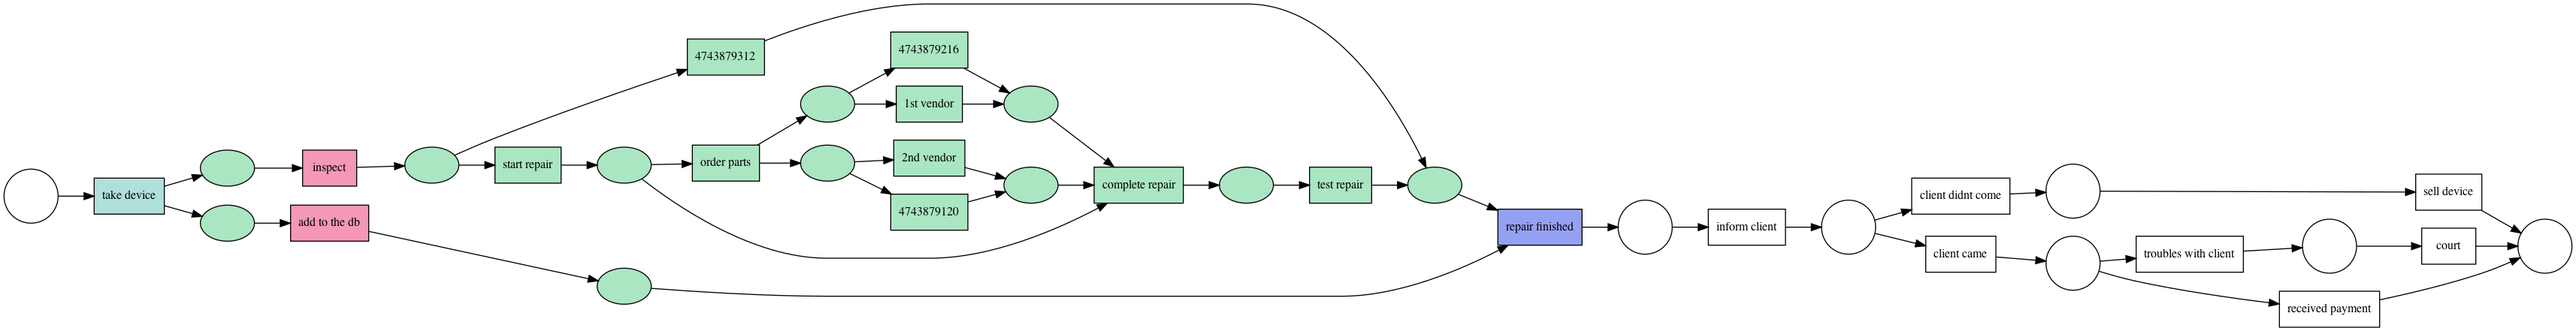
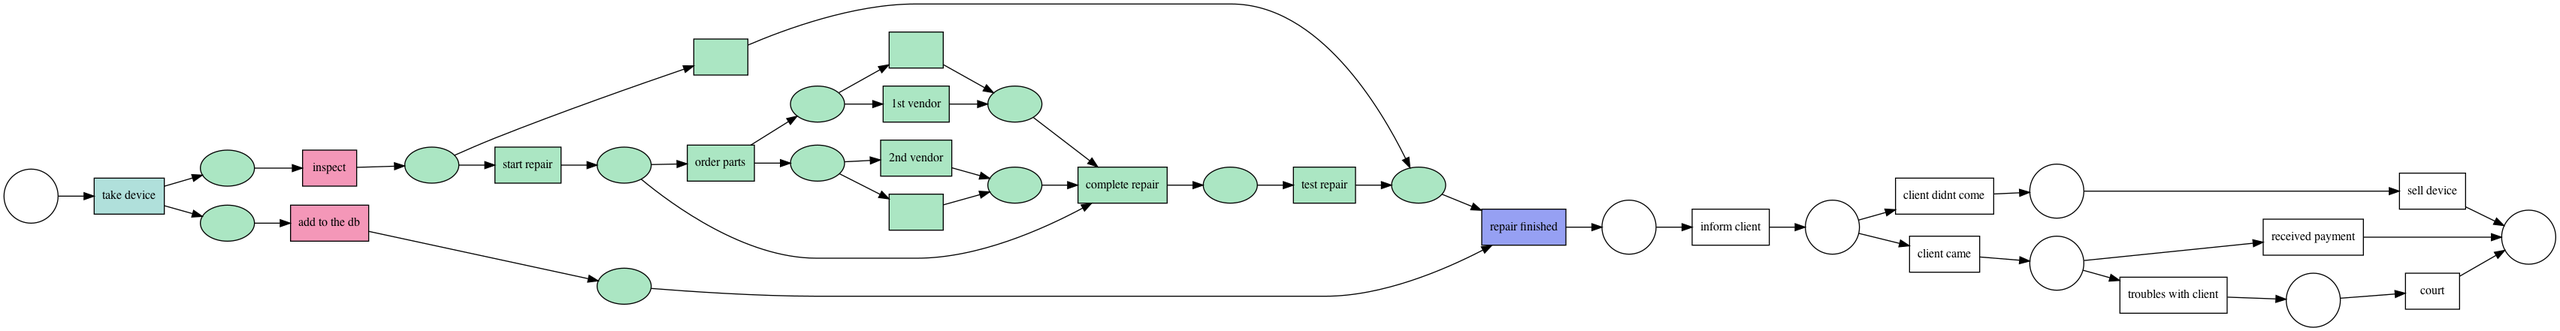
optimized min hammock to O(m)

diff --git a/hammocks_covering/variants/minimal_hammock.py b/hammocks_covering/variants/minimal_hammock.py
@@ -34,26 +34,42 @@ class NodeFilter:
 
 
 def _bfs(start_nodes, target_node=None, stop_nodes=None, used=None, reverse_order: bool = False):
+    """
+    if target_node is not None -> path mode
+    otherwise                  -> traversal mode
+    :return:
+        in path mode
+            a path from any of the start_nodes to the target_node
+        in traversal mode
+            new_used_nodes - set of the new nodes that became used during this traversal
+            visited_stops
+    """
     parents = {}
     used = set() if used is None else used
     stop_nodes = set() if stop_nodes is None else stop_nodes
     cur_level = []
+
+    new_used_nodes = set()
+    visited_stops = set()
+
     for node in start_nodes:
         if target_node is not None:
             if node == target_node:
                 return [node]
             parents[node] = None
+        if node in used:
+            continue
+        new_used_nodes.add(node)
         used.add(node)
+        if node in stop_nodes:
+            visited_stops.add(node)
+            continue
         cur_level.append(node)
 
     next_level = []
-    visited_stops = set()
 
     while cur_level:
         for node in cur_level:
-            if node in stop_nodes:
-                visited_stops.add(node)
-                continue
             for arc in (node.in_arcs if reverse_order else node.out_arcs):
                 next_node = (arc.source if reverse_order else arc.target)
                 if next_node not in used:
@@ -61,6 +77,10 @@ def _bfs(start_nodes, target_node=None, stop_nodes=None, used=None, reverse_orde
                         parents[next_node] = node
                         if node == target_node:
                             break
+                    if next_node in stop_nodes:
+                        visited_stops.add(next_node)
+                        continue
+                    new_used_nodes.add(next_node)
                     used.add(next_node)
                     next_level.append(next_node)
         cur_level = next_level
@@ -78,7 +98,7 @@ def _bfs(start_nodes, target_node=None, stop_nodes=None, used=None, reverse_orde
         path = list(reversed(path))
         return path
     else:
-        return visited_stops
+        return new_used_nodes, visited_stops
 
 
 def _find_path(start_nodes, target_node, reverse_order=False):
@@ -91,66 +111,54 @@ def _find_path(start_nodes, target_node, reverse_order=False):
     return _bfs(start_nodes, target_node=target_node, reverse_order=reverse_order)
 
 
-def _find_candidate(covered_nodes, target_node, reverse_order=False, cand_filter: NodeFilter = NodeFilter()):
+def _find_candidate(traverse_queue, path_to_target, pos_in_path, suffix_nodes, cur_cand_pos, used: Set, reverse_order=False, cand_filter: NodeFilter = NodeFilter()):
     '''
     :return:
+        new_candidate
+        new nodes that are inside the hammock
+
         returns the `target_node` if none of the candidates are permitted by the `cand_filter`
     '''
-    path = _find_path(covered_nodes, target_node, reverse_order=reverse_order)
-    pos_in_path = {node: pos for pos, node in enumerate(path)}
-
-    middle_pos = 0
-    suffix_nodes = set(path)
-    used = set()
 
     def reduce_suffix_by(k):
-        nonlocal middle_pos, suffix_nodes
-        for _ in range(middle_pos, middle_pos + k):
-            if middle_pos >= len(path):
+        nonlocal traverse_queue, cur_cand_pos, used
+        for _ in range(0, k):
+            if cur_cand_pos >= 0:
+                traverse_queue.add(path_to_target[cur_cand_pos])
+                suffix_nodes.remove(path_to_target[cur_cand_pos])
+            cur_cand_pos += 1
+            if cur_cand_pos >= len(path_to_target):
                 raise Exception("Path length exceeded")
-            suffix_nodes.remove(path[middle_pos])
-            middle_pos += 1
 
-    prefix_node_pos = -1
+    used_nodes = set()
+    new_cand_pos = cur_cand_pos
     while True:
-        while prefix_node_pos < middle_pos:
-            start_nodes = covered_nodes if prefix_node_pos == -1 else [path[prefix_node_pos]]
-            visited_suffix_nodes = _bfs(start_nodes, stop_nodes=suffix_nodes, used=used, reverse_order=reverse_order)
+        while traverse_queue:
+            new_used_nodes, visited_suffix_nodes = _bfs(traverse_queue, stop_nodes=suffix_nodes, used=used,
+                                                        reverse_order=reverse_order)
+            traverse_queue.clear()
+            used_nodes = used_nodes.union(new_used_nodes)
 
-            new_middle_pos = middle_pos
             for node in visited_suffix_nodes:
-                new_middle_pos = max(new_middle_pos, pos_in_path[node])
-            if new_middle_pos > middle_pos:
-                reduce_suffix_by(new_middle_pos - middle_pos)
-            prefix_node_pos += 1
+                new_cand_pos = max(new_cand_pos, pos_in_path[node])
+            if new_cand_pos > cur_cand_pos:
+                reduce_suffix_by(new_cand_pos - cur_cand_pos)
 
-        if middle_pos + 1 == len(path) or cand_filter.is_permitted(path[middle_pos]):
+        if new_cand_pos + 1 == len(path_to_target) or cand_filter.is_permitted(path_to_target[new_cand_pos]):
             break
         reduce_suffix_by(1)
 
-    return path[middle_pos]
+    return new_cand_pos, used_nodes
 
 
-def _find_source_candidate(covered_nodes, net_source, parameters=None):
+def _find_source_candidate(traverse_queue, path_to_target, pos_in_path, suffix_nodes, cur_cand_pos, used: Set, parameters=None):
     source_node_type = exec_utils.get_param_value(Parameters.PARAM_SOURCE_NODE_TYPE, parameters, NodeTypes.PLACE_TYPE)
-    return _find_candidate(covered_nodes, net_source, reverse_order=True, cand_filter=NodeFilter(source_node_type))
+    return _find_candidate(traverse_queue, path_to_target, pos_in_path, suffix_nodes, cur_cand_pos, used, reverse_order=True, cand_filter=NodeFilter(source_node_type))
 
 
-def _find_sink_candidate(covered_nodes, net_sink, parameters=None):
+def _find_sink_candidate(traverse_queue, path_to_target, pos_in_path, suffix_nodes, cur_cand_pos, used: Set, parameters=None):
     sink_node_type = exec_utils.get_param_value(Parameters.PARAM_SINK_NODE_TYPE, parameters, NodeTypes.PLACE_TYPE)
-    return _find_candidate(covered_nodes, net_sink, cand_filter=NodeFilter(sink_node_type))
-
-
-def _expand_as_hammock(covered_nodes, source_cand, sink_cand):
-    new_nodes = set()
-    for node in covered_nodes:
-        if node != source_cand:
-            for arc in node.in_arcs:
-                new_nodes.add(arc.source)
-        if node != sink_cand:
-            for arc in node.out_arcs:
-                new_nodes.add(arc.target)
-    return new_nodes.difference(covered_nodes)
+    return _find_candidate(traverse_queue, path_to_target, pos_in_path, suffix_nodes, cur_cand_pos, used, cand_filter=NodeFilter(sink_node_type))
 
 
 def apply(covered_nodes: Set[Union[PetriNet.Place, PetriNet.Transition]],
@@ -176,15 +184,44 @@ def apply(covered_nodes: Set[Union[PetriNet.Place, PetriNet.Transition]],
     """
     covered_nodes = set(covered_nodes)
 
-    while True:
-        source_cand = _find_source_candidate(covered_nodes, net_source, parameters)
-        sink_cand = _find_sink_candidate(covered_nodes, net_sink, parameters)
+    SRC = 0
+    SINK = 1
 
-        covered_nodes.add(source_cand)
-        covered_nodes.add(sink_cand)
-        new_nodes = _expand_as_hammock(covered_nodes, source_cand, sink_cand)
-        if not new_nodes:
-            break
-        covered_nodes = covered_nodes.union(new_nodes)
+    path_to = [None, None]
+    path_to[SRC] = _find_path(covered_nodes, net_source, reverse_order=True)
+    path_to[SINK] = _find_path(covered_nodes, net_sink)
 
-    return Hammock(source_cand, sink_cand, covered_nodes)
+    pos_in_path = [None, None]
+    pos_in_path[SRC] = {node: pos for pos, node in enumerate(path_to[SRC])}
+    pos_in_path[SINK] = {node: pos for pos, node in enumerate(path_to[SINK])}
+
+    suffix_nodes = [None, None]
+    suffix_nodes[SRC] = set(path_to[SRC])
+    suffix_nodes[SINK] = set(path_to[SINK])
+
+    used = [None, None]
+    used[SRC] = set()
+    used[SINK] = set()
+
+    inside_hammock = set()
+    new_inside_hammock = set(covered_nodes)
+
+    source_cand = sink_cand = 0
+
+    while new_inside_hammock:
+        source_cand, src_new_inside = _find_source_candidate(copy(new_inside_hammock), path_to[SRC], pos_in_path[SRC], suffix_nodes[SRC], source_cand, used[SRC], parameters)
+        sink_cand, sink_new_inside = _find_sink_candidate(copy(new_inside_hammock), path_to[SINK], pos_in_path[SINK], suffix_nodes[SINK], sink_cand, used[SINK], parameters)
+        inside_hammock = inside_hammock.union(new_inside_hammock)
+        new_inside_hammock = src_new_inside.union(sink_new_inside).difference(new_inside_hammock)
+
+        # expand
+        for arc in path_to[SRC][source_cand].out_arcs:
+            cur_node = arc.target
+            if cur_node not in inside_hammock:
+                new_inside_hammock.add(cur_node)
+        for arc in path_to[SINK][sink_cand].in_arcs:
+            cur_node = arc.source
+            if cur_node not in inside_hammock:
+                new_inside_hammock.add(cur_node)
+
+    return Hammock(path_to[SRC][source_cand], path_to[SINK][sink_cand], inside_hammock)

diff --git a/hammocks_covering/examples/min_hammock.py b/hammocks_covering/examples/min_hammock.py
@@ -1,0 +1,28 @@
+from hammocks_covering.examples.test_net import create_net
+from pm4py.visualization.petri_net import visualizer as pn_visualizer
+from hammocks_covering.examples.net_helpers import get_transition_by_label
+from hammocks_covering import algorithm as hammocks_covering
+import hammock_vis
+
+
+def print_min_hammock():
+    net, init_marking, final_marking = create_net()
+    # viz = pn_visualizer.apply(net, init_marking, final_marking)
+    # pn_visualizer.save(viz, 'images/sample.png')
+
+    order_parts_t = get_transition_by_label(net, 'order parts')
+    sec_vendor_t = get_transition_by_label(net, '2nd vendor')
+    add_to_the_db_t = get_transition_by_label(net, 'add to the db')
+    inspect_t = get_transition_by_label(net, 'inspect')
+
+    covered_nodes = [add_to_the_db_t, inspect_t]
+    # covered_nodes = [order_parts_t, sec_vendor_t]
+
+    parameters = {
+        hammocks_covering.Parameters.HAMMOCK_SOURCE_NODE_TYPE: hammocks_covering.NodeTypes.PLACE_TYPE | hammocks_covering.NodeTypes.NOT_HIDDEN_TRANS_TYPE | hammocks_covering.NodeTypes.HIDDEN_TRANS_TYPE,
+        hammocks_covering.Parameters.HAMMOCK_SINK_NODE_TYPE: hammocks_covering.NodeTypes.PLACE_TYPE | hammocks_covering.NodeTypes.NOT_HIDDEN_TRANS_TYPE | hammocks_covering.NodeTypes.HIDDEN_TRANS_TYPE
+    }
+
+    min_hammock = hammocks_covering.apply(net, covered_nodes, parameters=parameters)
+    viz = hammock_vis.visualize_hammock(net, min_hammock, covered_nodes)
+    pn_visualizer.save(viz, 'images/hammock.png')

diff --git a/main.py b/main.py
@@ -1,28 +1,3 @@
-from test_net import create_net
-from pm4py.visualization.petri_net import visualizer as pn_visualizer
-from net_helpers import get_transition_by_label
-from hammocks_covering import algorithm as hammocks_covering
-from hammocks_covering.variants import minimal_hammock
-import hammock_vis
+from hammocks_covering.examples import min_hammock
 
-net, init_marking, final_marking = create_net()
-# viz = pn_visualizer.apply(net, init_marking, final_marking)
-# pn_visualizer.save(viz, 'images/sample.png')
-
-order_parts_t = get_transition_by_label(net, 'order parts')
-sec_vendor_t = get_transition_by_label(net, '2nd vendor')
-add_to_the_db_t = get_transition_by_label(net, 'add to the db')
-inspect_t = get_transition_by_label(net, 'inspect')
-
-covered_nodes = [add_to_the_db_t, inspect_t]
-
-parameters = {
-    hammocks_covering.Parameters.HAMMOCK_SOURCE_NODE_TYPE: hammocks_covering.NodeTypes.PLACE_TYPE | hammocks_covering.NodeTypes.NOT_HIDDEN_TRANS_TYPE,
-    hammocks_covering.Parameters.HAMMOCK_SINK_NODE_TYPE: hammocks_covering.NodeTypes.PLACE_TYPE | hammocks_covering.NodeTypes.NOT_HIDDEN_TRANS_TYPE
-}
-
-min_hammock = hammocks_covering.apply(net, covered_nodes, parameters=parameters)
-viz = hammock_vis.visualize_hammock(net, min_hammock, covered_nodes)
-pn_visualizer.save(viz, 'images/hammock.png')
-
-debug = 1
+min_hammock.print_min_hammock()

diff --git a/hammock_vis.py b/hammock_vis.py
@@ -12,7 +12,10 @@ def get_label(obj, default_label):
     if isinstance(obj, PetriNet.Place):
         return default_label
     else:
-        return obj.label
+        if obj.label is None:
+            return ""
+        else:
+            return obj.label
 
 
 def visualize_hammock(net, hammock, covered_set):

diff --git a/hammocks_covering/examples/__init__.py b/hammocks_covering/examples/__init__.py
@@ -1,0 +1,1 @@
+from hammocks_covering.examples import min_hammock, net_helpers, test_net
